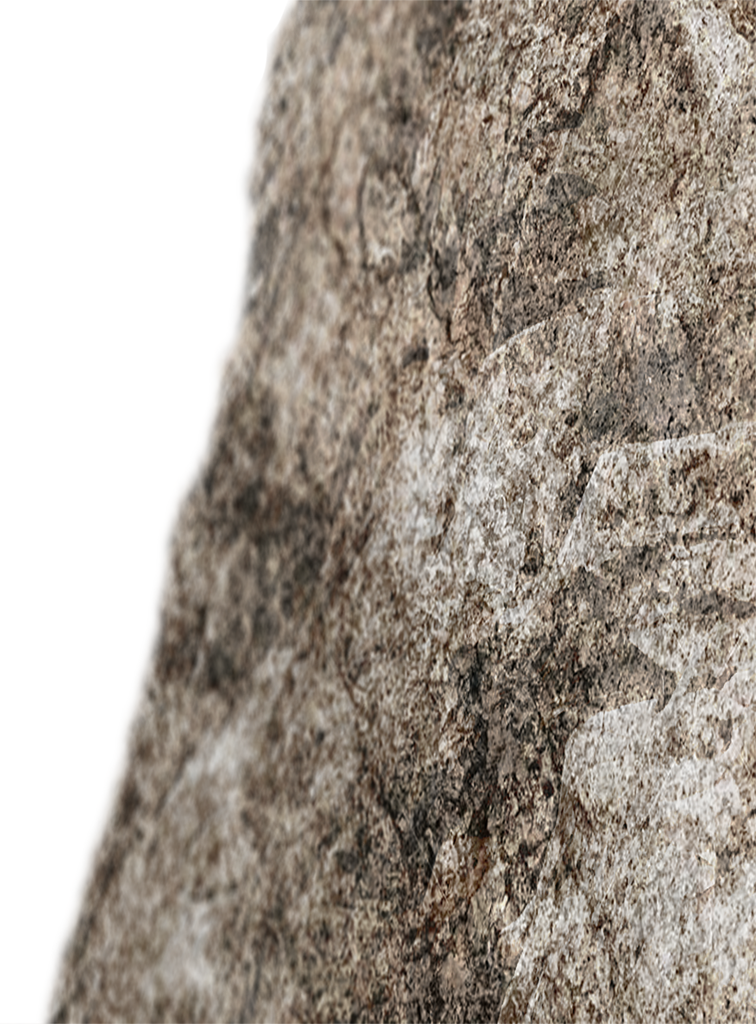
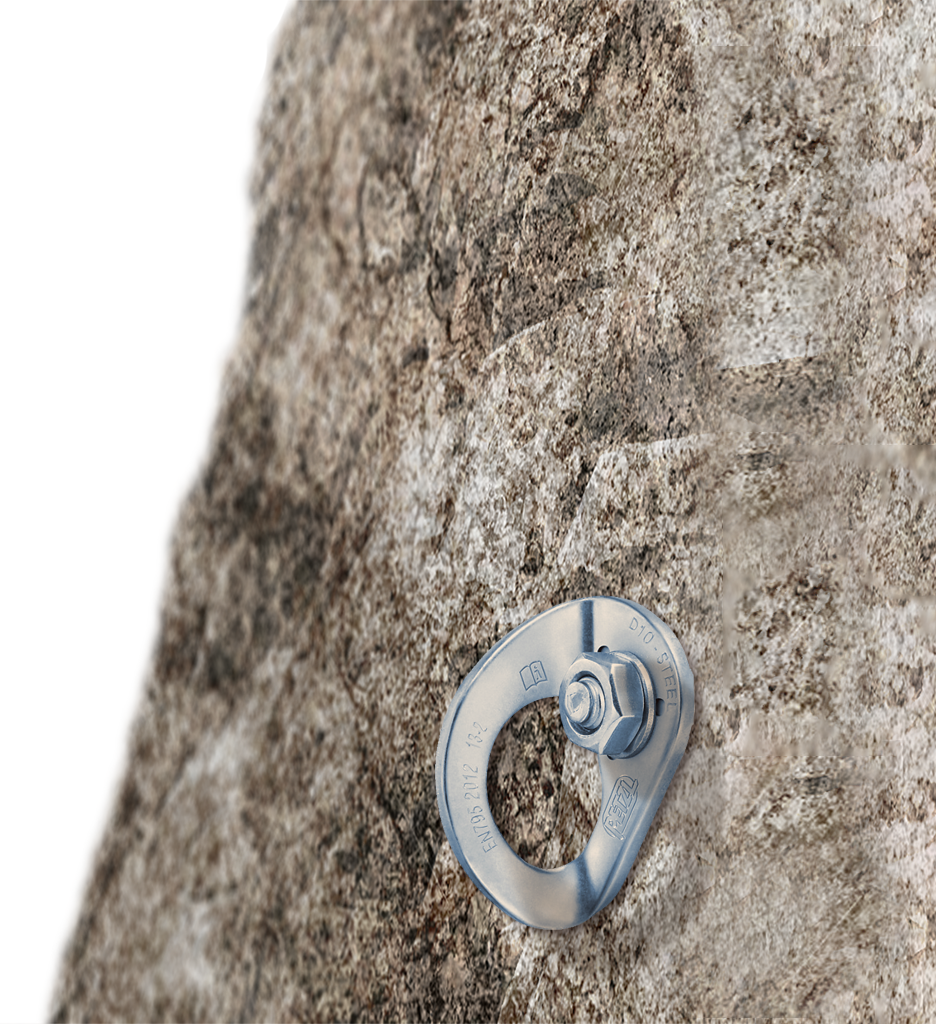
continue to update responsive design and parrallax

diff --git a/texasmountaineers.org/wordpress/wp-content/thesis/skins/classic-r/css.css b/texasmountaineers.org/wordpress/wp-content/thesis/skins/classic-r/css.css
@@ -36,6 +36,17 @@ table {
   border-collapse: collapse;
   border-spacing: 0; }
 
+
+  p::first-letter{
+    font-weight: 900;
+  }
+
+  .footer p::first-letter{
+    font-weight: 300;
+  }
+
+
+
 img,
 fieldset {
   border: 0; }
@@ -69,7 +80,8 @@ video,
 embed,
 object {
   display: block;
-  max-width: 100%; }
+  max-width: 100%;
+  padding: 20px 0; }
 
 img {
   display: block; }
@@ -129,31 +141,37 @@ button {
      img.bolt{
           z-index: 2;
           position: absolute;
-          top:1200px;
+          /* top:1200px; */
           left: -100px;
-          height: 180px;
+          max-width: 500px;
         }
 
       img.rock{
         z-index: 1;
         position: absolute;
-        top:1082px;
-        right:-1100px;
-          max-height: 1024px;
+        /* top:1082px; */
+        right:-1200px;
+        max-height: 1024px;
       }
       img.rockleft{
         z-index: 1;
         position: absolute;
-        top:1082px;
+        /* top:1082px; */
         left: 0;
         max-height: 1024px;
       }
       img.blurBG{
         z-index: 0;
-        position: absolute;
-        top:1082px;
+        /* position: relative; */
+        /* top:1082px; */
         max-height: 1024px;
       }
+
+    .parallax{
+      position: inline-block;
+      position: relative;
+    }
+
 
     .parallax  ul{
         list-style-type: none;
@@ -394,9 +412,9 @@ a {
 
   .cardGray{
     background: #444;
+    line-height: 3rem;
     padding: 50px;;
     color:#fff;
-    height: 400px;
     vertical-align: center;
   }
 
@@ -1062,8 +1080,7 @@ input[type="submit"] {
 
   .container,
   .landing .container {
-    width: auto;
-    max-width: 820px; }
+    width: auto; }
 
   .header {
     border-top: 1px solid #dddddd; }
@@ -1142,6 +1159,7 @@ input[type="submit"] {
           line-height: 3em;
           background-color: #fbe108;
           border-radius: 0px  20px 20px 0px;
+          background-image: linear-gradient(#F9B906, #F9E106, #F9E106, #F9E106);
           background-image: url(../imgs/rope.png) no-repeat right center;
           width: 60%;
           box-shadow:          2px 2px 5px 	rgba(51, 153, 255, .25);
@@ -1256,14 +1274,7 @@ input[type="submit"] {
  */
 .container {
   background-color: #c6d5e3;
-    /*
-   * opacity: 0.85;
-   * filter: alpha(opacity=90);  For IE8 and earlier
-   */
-  padding: 5px 5px 5px 5px;
-    /*
-   * top, right, bottom, left
-   */
+
 
   box-shadow: 3px 1px 10px 1px #101820;
     /*
@@ -1484,7 +1495,7 @@ input[type="submit"] {
 
 .content > .post_box  h1,
 .sidebar > .text_box h1 {
-  text-decoration: underline; }
+ }
 
 .content .post_box .headline_area {
   margin-bottom: 5px; }
@@ -1730,11 +1741,6 @@ padding: 3px; }
   #mc_embed_signup input.email {
     width: 100% !important; }
 
-  .content > .post_box {
-    margin: 5px 0px 0px 0px;
-        /*
-     * top, right, bottom, left
-     */ }
 
   .columns > .sidebar {
     margin: 5px 0px 0px 0px;
@@ -1810,9 +1816,7 @@ padding: 3px; }
          -webkit-transform: scale(0.7);
          -moz-transform: translateY(-35px) scale(0.5);
        }
-    }
 
-@media only screen and (max-width: 1100px) {
   .site-logo a {
     background-image: url(../../../uploads/logo/logo.svg);
     background-size: 50px 60px;
@@ -1839,18 +1843,37 @@ padding: 3px; }
      */ }
     }
 
-@media all and (max-width: 480px) {
-    #mc_embed_signup input.email {
-      width: 100% !important; }
+@media all and (max-width: 501px) {
 
-    .site-logo {
-      display: none; }
+  #mc_embed_signup input.email {
+    width: 100% !important; }
 
-    .sticky{
-      position: inherit;
+  .content h1.headline{
+    font-family: "Roboto", sans-serif;
+    font-weight: 900;
+    position: relative;
+    margin-left: -30px;
+    margin-bottom:15px;
+    padding-left: 30px;
+    font-size: 1rem;
+    line-height: 3em;
+    background-color: #fbe108;
+    border-radius: 0px  20px 20px 0px;
+    background-image: url(../imgs/rope.png) no-repeat right center;
+    width: 95%;
+    box-shadow:          2px 2px 5px 	rgba(51, 153, 255, .25);
+    -webkit-box-shadow:  2px 2px 5px rgba(51, 153, 255, .25);  /* Safari 3-4, iOS 4.0.2 - 4.2, Android 2.3+ */
+    -moz-box-shadow:     2px 2px 5px rgba(51, 153, 255, .25);}
+    .headline::after{
+      content: url(../../../uploads/mtn.png);
+      position: absolute;
+      top: 35px;
+      right: 45px;
+      width: 1em;
+      height: 1em;
+      -webkit-transform: translateY(-30px) scale(0.33);
+      -moz-transform: translateY(-30px) scale(0.5);
     }
-  }
-
 
   #thesis-search-widget-4 .input_text {
     width: 75px; }

diff --git a/texasmountaineers.org/index.html b/texasmountaineers.org/index.html
@@ -216,6 +216,7 @@ var monsterinsights_frontend = {"js_events_tracking":"true","download_extensions
 		</div>
 
 		<div class="cardGray">
+
 			<h1> Bolting and Rebolting initiatives by Texas Mountaineers</h1>
 			<p>
 		Gary Ballard leads the sustainable bolding initiative. Keeping climbing areas safe takes a lot of time and expertise. The effort of the TM help maintains safety in our outdoor climbing environments. 
@@ -226,21 +227,10 @@ var monsterinsights_frontend = {"js_events_tracking":"true","download_extensions
 
 		<div></div>
 		<section 	class='parallax'>
-			<div style="z-index:10">
-				<ul>
-						<!-- <li class=""><img src="wordpress/wp-content/uploads/rustyHardware.png" alt=""></li>
 
-					<li class="">dfg<img src="wordpress/wp-content/uploads/graniteRock.png" alt=""></li>
-					<li class=""><img src="wordpress/wp-content/uploads/blurBG.png" alt=""></li> -->
-					<li class="scroll" data-rate='-.155'>Bolting</li>
-					<li class="scroll" data-rate='-.25'>&</li>
-					<li class='scroll' data-rate='.1'>Rebolting</li>
-				</ul>
-
-			</div>
-
-		    <span class="hanger" ><img class="bolt"  data-rate=".7" src="wordpress/wp-content/uploads/boltHanger.png" alt=""></span>
-		      <span class="" ><img class="rock"  data-rate=".01" src="wordpress/wp-content/uploads/graniteRock.png" alt=""></span>
+		<span class=""><img class="rusty" src="wordpress/wp-content/uploads/rustyHardware.png" alt=""></span>
+		    <span class="hanger" ><img class="bolt"  data-rate=".5" src="wordpress/wp-content/uploads/boltHanger.png" alt=""></span>
+		      <span class="" ><img class="rock"  data-rate="-.55" src="wordpress/wp-content/uploads/graniteRock.png" alt=""></span>
 			  <span class="" ><img class="rockleft"  data-rate=".2" src="wordpress/wp-content/uploads/graniteRockleft.png" alt=""></span>
 				  <span class="" ><img class="blurBG"  data-rate=".2" src="wordpress/wp-content/uploads/blurBG.png" alt=""></span>
 		</section>
@@ -253,19 +243,21 @@ var monsterinsights_frontend = {"js_events_tracking":"true","download_extensions
 		          let bolt = document.querySelector('.bolt');
 		          let rock = document.querySelector('.rock');
 							let bg = document.querySelector('.blurBG');
+							let target = document.querySelectorAll('scroll');
 
 
 		         var scrolled  = window.pageYOffset;
 		         const rateBolt = scrolled *  bolt.dataset.rate;
-						  const rateRock = scrolled *  bolt.dataset.rate;
+						  const rateRock = scrolled *  rock.dataset.rate;
 							const rateBG = scrolled * bg.dataset.rate;
 
-		        console.log(rock.style);
 
-		        bolt.style.transform = 'translate3d('+rateBolt+'px, 100px, 0)';
-		 			 rock.style.transform =  'translate3d(-'+rateBolt+'px, 0, 0)'
-					 bg.style.transform = opacity(.5);
-		                 console.log( rate);
+		        console.log(bg.style);
+
+		        bolt.style.transform = 'translate3d('+rateBolt+'px, 25px, 0)';
+		 			 rock.style.transform =  'translate3d('+rateRock+'px, 0, 0)';
+					 bg.style.opacity = 1200+rateBG;
+		                 console.log(  rateBG);
 
 
 		          let length = target.length;
@@ -284,7 +276,7 @@ var monsterinsights_frontend = {"js_events_tracking":"true","download_extensions
 
 
 		<div class="cardGray">
-
+			<div class="card">
 				<div class="post_content" itemprop="articleBody">
 
 					<h2>Join our Newsletter!</h2>
@@ -315,13 +307,14 @@ var monsterinsights_frontend = {"js_events_tracking":"true","download_extensions
 										<div class="clear"><input type="submit" value="Subscribe" name="subscribe" id="mc-embedded-subscribe" class="button"></div>
 										</div>
 						</form>
-
-
-					<!--End mc_embed_signup--></div>
-							</div></div>
-							</div>
+					<!--End mc_embed_signup-->
 				</div>
 			</div>
+
+
+			</div>
+		</div>
+	</div>
 
 
 

diff --git a/texasmountaineers.org/forum/index.html b/texasmountaineers.org/forum/index.html
@@ -4,7 +4,6 @@
 <!-- Mirrored from texasmountaineers.org/forum/ by HTTrack Website Copier/3.x [XR&CO'2014], Mon, 06 Jan 2020 17:42:25 GMT -->
 <!-- Added by HTTrack --><meta http-equiv="content-type" content="text/html;charset=ISO-8859-1" /><!-- /Added by HTTrack -->
 <head>
-	<link href="../wordpress/wp-content/thesis/skins/classic-r/css.css" rel="stylesheet" />
 	<link rel="stylesheet" type="text/css" href="Themes/Reseller/css/bootstrap.css" />
 	<link rel="stylesheet" type="text/css" href="Themes/Reseller/css/reseller.css" />
 	<link rel="stylesheet" type="text/css" href="Themes/Reseller/css/index7b35.css?fin20" />
@@ -141,41 +140,6 @@
 
 </head>
 <body>
-	<div class="container">
-
-	</div>
-	<div class="header-bar sticky">
-		<div>
-				<ul class="soc">
-						<li><a class="soc-facebook" href="http://facebook.com/TXMountaineers/"></a></li>
-						<!--<li><a class="soc-twitter" href="#"></a></li>-->
-						<!--<li><a class="soc-email1" href="#"></a></li>-->
-						<!--<li><a class="soc-rss soc-icon-last" href="#"></a></li>-->
-				</ul>
-			</div>
-			<div class="site-logo">
-					<a href="../index.html" title="Texas Mountaineers" class="site-logo"></a>
-			</div>
-			<span class="menu_control">Menu</span>
-				<ul id="menu-main-menu" class="menu">
-
-					<li id="menu-item-159" class="menu-item menu-item-type-post_type menu-item-object-page  menu-item-159"><a href="../classes/index.html"  aria-current="page">Classes</a></li>
-						<li id="menu-item-159" class="menu-item menu-item-type-post_type menu-item-object-page menu-item-159"><a href="../club-climbs/index.html">Club Climbs</a></li>
-					<li id="menu-item-185" class="menu-item menu-item-type-post_type menu-item-object-page menu-item-has-children menu-item-185"><a href="../membership/index.html">Membership</a>
-					<ul class="sub-menu">
-						<li id="menu-item-280" class="menu-item menu-item-type-post_type menu-item-object-page menu-item-280"><a href="../guidelines/index.html">Guidelines</a></li>
-						<li id="menu-item-281" class="menu-item menu-item-type-post_type menu-item-object-page menu-item-281"><a href="../by-laws/index.html">By-Laws</a></li>
-					</ul>
-					</li>
-					<li id="menu-item-44" class="menu-item menu-item-type-post_type menu-item-object-page menu-item-44"><a href="../calendar/index.html">Calendar</a></li>
-					<li id="menu-item-515" class="menu-item menu-item-type-custom menu-item-object-custom menu-item-515"><a href="../forum/index.html">Forum</a></li>
-					<li id="menu-item-410" class="menu-item menu-item-type-custom menu-item-object-custom menu-item-410"><a target="_blank" rel="noopener noreferrer" href="https://squareup.com/store/texas-mountaineers/">Store</a></li>
-					<li id="menu-item-685" class="menu-item menu-item-type-custom menu-item-object-custom menu-item-685"><a  rel="noopener noreferrer" href="../library/index.html">Library</a></li>
-					<li id="menu-item-99" class="menu-item menu-item-type-post_type menu-item-object-page menu-item-99"><a href="../about/index.html">About</a></li>
-					<li id="menu-item-778" class="menu-item menu-item-type-post_type menu-item-object-page menu-item-778"><a href="../contact-2/index.html">Contact</a></li>
-			</ul>
-	</div>
-
 <nav class="navbar navbar-default navbar-static-top" role="navigation">
 	<div class="container">
 		<div class="row">

diff --git a/texasmountaineers.org/club-climbs/index.html b/texasmountaineers.org/club-climbs/index.html
@@ -187,7 +187,7 @@ var monsterinsights_frontend = {"js_events_tracking":"true","download_extensions
 	</div>
 	<div class="content">
 		<div id="post-706" class="post_box grt top" itemscope itemtype="https://schema.org/Article">
-				<h2 class="headline" itemprop="headline">2019 Classes &#038; Club Climbs</h2>
+				<h1 class="headline" itemprop="headline">2019 Classes &#038; Club Climbs</h1>
 				<div class="byline small">
 					<meta itemprop="datePublished" content="2019-12-28" />
 					<meta itemprop="dateModified" content="2019-12-29" />

diff --git a/texasmountaineers.org/css/js-image-slider.css b/texasmountaineers.org/css/js-image-slider.css
@@ -8,8 +8,6 @@
 {
     position:relative;
     background-color:white;
-    padding-top: 100px;
-
 }
 
 #slider, #slider .sliderInner {
